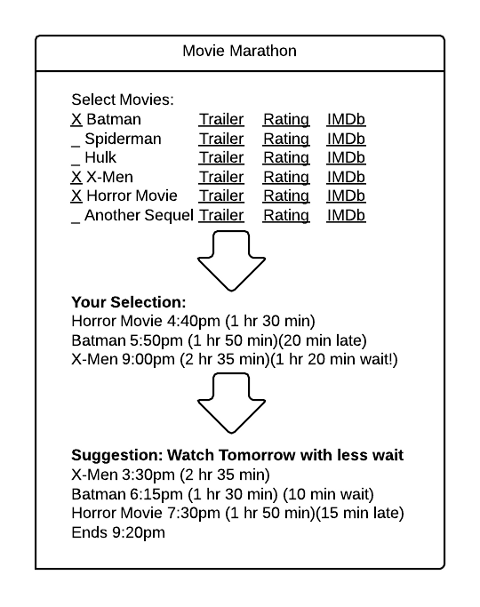
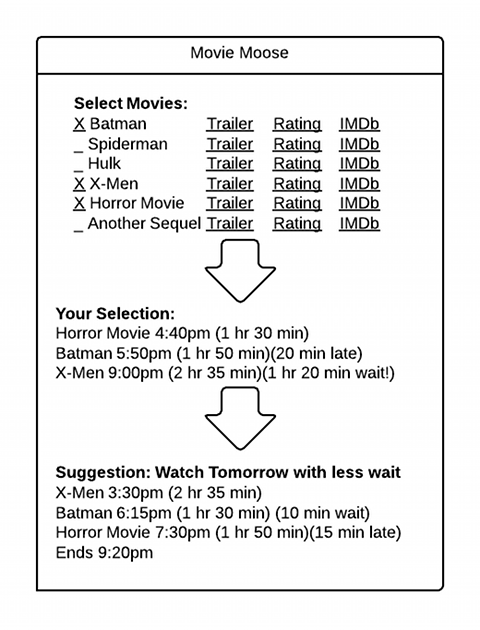
title change

Changed region(s): [[0.0625, 0.0593, 0.9375, 0.9489]]

diff --git a/index.html b/index.html
@@ -2,7 +2,7 @@
 <html lang="en">
   <head>
     <meta charset="utf-8">
-    <title>Movie Moocher</title>
+    <title>Movie Moose</title>
     <meta name="viewport" content="width=device-width, initial-scale=1.0">
     <link rel="stylesheet" href="https://d396qusza40orc.cloudfront.net/startup%2Fcode%2Fbootstrap-combined.no-icons.min.css">
     <link rel="stylesheet" href="http://netdna.bootstrapcdn.com/font-awesome/3.0.2/css/font-awesome.css">
@@ -112,7 +112,7 @@
             <span class="icon-bar"></span>
             <span class="icon-bar"></span>
           </button>
-          <a class="brand" href="#">Movie Moocher</a>
+          <a class="brand" href="#">Movie Moose</a>
           <div class="nav-collapse collapse">
             <ul class="nav">
               <li class="active"><a href="#">Home</a></li>
@@ -133,7 +133,7 @@
       <!-- www.google.com/fonts/specimen/Ubuntu#pairings -->
       <div class="row-fluid heading">
         <div class="span12">
-          <h1>Movie Moocher</h1>
+          <h1>Movie Moose</h1>
         </div>
       </div> 
       <div class="row-fluid subheading">
@@ -204,7 +204,7 @@
         </div>
         <div class="span5 copy">
           <p>
-            Movie Moocher solves a common problem at the movie theater: scheduling the 
+            Movie Moose solves a common problem at the movie theater: scheduling the 
 			order in which you watch multiple movies. If you ever tried to watch two or even three 
 			movies in one day, you have tried to do this in your head: I want to watch these two
 			great movies, but movie A one is three hours long and will finish after movie B starts.
@@ -220,11 +220,11 @@
       <div class="row-fluid section2">
         <div class="span5 offset1 copy copy-right">
           <p>
-            Don't go to the theaters and stare at the movie show times billboard. Let Movie Moocher do the 
+            Don't go to the theaters and stare at the movie show times billboard. Let Movie Moose do the 
 			planning for you and head straight to the ticket window. Featuring multiple movie theater 
-			show times, photos, trailers, critics ratings at a glance, Movie Moocher will 
+			show times, photos, trailers, critics ratings at a glance, Movie Moose will 
 			make movie planning quick and easy. For the movie buffs or the boyfriend who needs to 
-			do all the planning, don't do the math marathon in your head; use Movie Moocher.
+			do all the planning, don't do the math marathon in your head; use Movie Moose.
           </p>
         </div>
         <div class="span5 asset">
